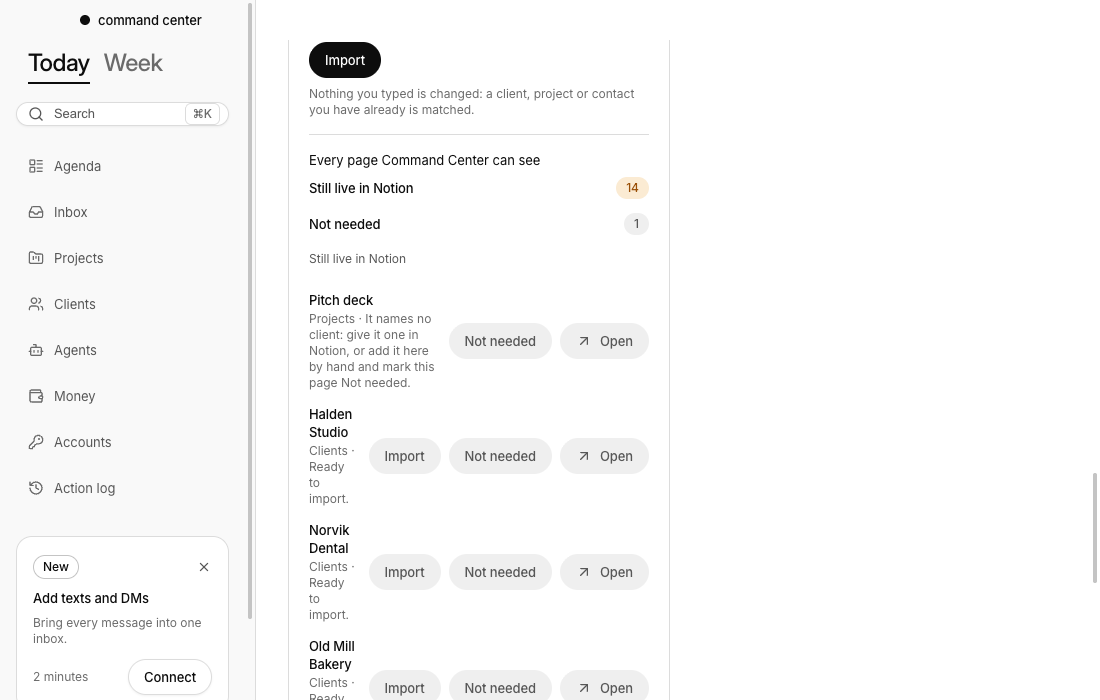
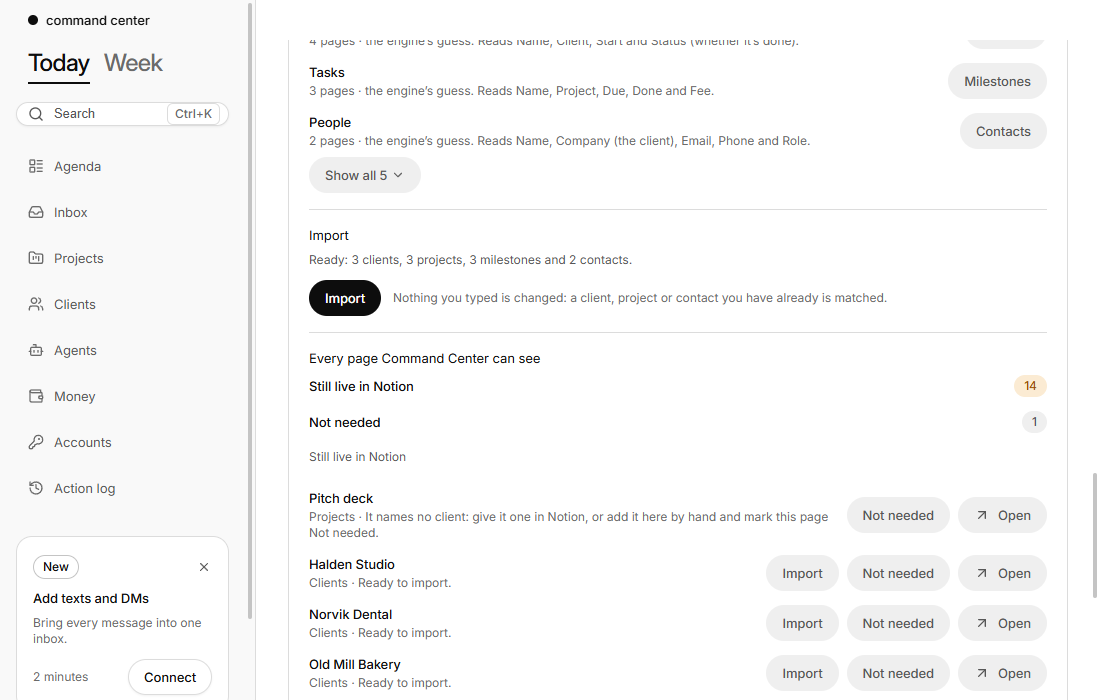
Guide and website: version 0.2.3, Notion without its limits

diff --git a/docs/notion.html b/docs/notion.html
@@ -4,9 +4,9 @@
 <meta charset="utf-8">
 <meta name="viewport" content="width=device-width, initial-scale=1">
 <title>Bringing in Notion · Command Center</title>
-<meta name="description" content="Import your clients, projects, milestones and contacts from Notion with a read-only connection, check what each database becomes, then retire Notion when nothing's left there.">
+<meta name="description" content="Import your clients, projects, milestones, contacts, contracts and accounts from Notion with a read-only connection, check what each database becomes, bring in later changes, then retire Notion when nothing's left there.">
 <meta property="og:title" content="Bringing in Notion · Command Center">
-<meta property="og:description" content="Import your clients, projects, milestones and contacts from Notion with a read-only connection, check what each database becomes, then retire Notion when nothing's left there.">
+<meta property="og:description" content="Import your clients, projects, milestones, contacts, contracts and accounts from Notion with a read-only connection, check what each database becomes, bring in later changes, then retire Notion when nothing's left there.">
 <meta property="og:image" content="assets/screens/today.png">
 <meta name="theme-color" content="#ffffff">
 <link rel="icon" href="assets/icon.png" type="image/png">
@@ -30,26 +30,37 @@
 <h2 id="connect">Connect</h2>
 <ol class="steps">
   <li>At <a href="https://app.notion.com/developers/connections">app.notion.com/developers/connections</a>, as your workspace's owner, create an <strong>internal connection</strong> called Command Center.</li>
-  <li>On its Configuration tab, let it <strong>read content only</strong>: untick updating and inserting content and any comment boxes, and choose no user information.</li>
+  <li>On its Configuration tab, let it <strong>read content only</strong>: untick updating and inserting content and any comment boxes. Under user information, choose <strong>Read user information without email addresses</strong>, so a page's people read as names, never email addresses.</li>
   <li>On its Content access tab, pick every page and database you still use. A page's children come with it.</li>
   <li>Copy its API token (it starts <code>ntn_</code>), paste it into Settings › Sources › Notion import, and choose <strong>Connect Notion</strong>. The token goes to your keychain.</li>
 </ol>
 
 <h2 id="import">Import</h2>
-<p>The <strong>Notion import</strong> card lists each database it can see and what it'll become: <strong>Clients</strong>, <strong>Projects</strong>, <strong>Milestones</strong>, <strong>Contacts</strong>, or <strong>Not imported</strong>. Its guess is just a guess until you choose.</p>
+<p>The <strong>Notion import</strong> card lists each database it can see and what it'll become: <strong>Clients</strong>, <strong>Projects</strong>, <strong>Milestones</strong>, <strong>Contacts</strong>, <strong>Contracts</strong>, <strong>Accounts</strong>, or <strong>Not imported</strong>. Its guess is just a guess until you choose.</p>
 <ul>
   <li>Each page shows whether it'll be <strong>added</strong>, <strong>matched</strong> to something you already have (and left as you typed it), or <strong>doesn't fit</strong>, with why.</li>
   <li>Choose <strong>Import</strong>. It's one change, with one <strong>Undo</strong> in the action log.</li>
   <li>Set aside any page with <strong>Not needed</strong>.</li>
 </ul>
 <figure><div class="shot"><img src="assets/screens/settings-tab-reading-notion.png" width="1100" height="700" alt="The Notion import card: Import, then every page Command Center can see, with those still live in Notion and their Import, Not needed and Open buttons." loading="lazy" decoding="async"></div></figure>
-<p>Long lists show their first rows, with <strong>Show all</strong>.</p>
+<p>Long lists show their first rows, with <strong>Show all</strong>. Big workspaces are fine: up to 20,000 pages and 200 databases, with the read's progress as it goes. Relations, rollups and formulas are read whole.</p>
+
+<h3 id="files">Files and secrets</h3>
+<ul>
+  <li><strong>A contract's file</strong> kept in Notion is copied into Command Center when you import it (up to 25 MB, from Notion's own file hosts only). A link to a file kept elsewhere opens in your browser from its row.</li>
+  <li><strong>Passwords, keys, tokens, PINs, recovery codes and card numbers are never read.</strong> A field named like one stays in Notion, and the card says so: keep it in your password manager.</li>
+</ul>
 
 <h2 id="live">Keeping an eye on what's left</h2>
 <p>Until you retire it, Notion is read again when you choose <strong>Check Notion now</strong> and at each touchpoint, before the brief. A page stays <strong>live</strong> while it's waiting, doesn't fit, sits outside your databases unsettled, or changed in Notion since you settled it. Open any page in your browser from its row.</p>
+<ul>
+  <li><strong>A page that changed in Notion</strong> after you imported it shows what changed, field by field. <strong>Bring in</strong> takes the change; where you changed the same field here too, pick <strong>Keep here</strong> or <strong>Use Notion</strong> for it. <strong>Checked</strong> leaves yours as it is. Either way you can undo it from the action log.</li>
+  <li><strong>Pages you haven't shared</strong> with the connection can't be read, but links to them are counted, so the card tells you how many to share.</li>
+  <li><strong>A page deleted in Notion</strong> counts as <strong>Gone from Notion</strong>, and the import is worked out again without it. An archived page is still read, marked <strong>Archived in Notion</strong>.</li>
+</ul>
 
 <h2 id="retire">Retire Notion</h2>
-<p>The checklist has four lines. Two tick themselves: <strong>Notion read, with what you shared</strong> and <strong>Nothing live remains in Notion</strong>. Two you tick: <strong>Every page you still use is shared with the connection</strong>, and <strong>Your databases are locked in Notion</strong> (••• › Lock database). With all four ticked, choose <strong>Retire Notion</strong>. Command Center forgets the token, and the Sources row reads <strong>Retired</strong>.</p>
+<p>The checklist has four lines. Three tick themselves: <strong>Notion read, with what you shared</strong>, <strong>Nothing live remains in Notion</strong>, and <strong>Your databases are locked in Notion</strong> once you lock each one you imported (••• › Lock database) and Notion says so; if Notion can't say, you tick it. You tick <strong>Every page you still use is shared with the connection</strong>. With all four ticked, choose <strong>Retire Notion</strong>. Command Center forgets the token, and the Sources row reads <strong>Retired</strong>.</p>
 <nav class="pager" aria-label="More docs"><a href="claude.html"><span>Before</span><strong>Claude, guardrails and costs</strong></a><a class="next" href="data.html"><span>Next</span><strong>Your data, backups and updates</strong></a></nav></main></div>
 <footer class="foot">
   <div class="wrap">

diff --git a/site/pages/notion.html b/site/pages/notion.html
@@ -1,27 +1,38 @@
-<!-- {"title": "Bringing in Notion", "description": "Import your clients, projects, milestones and contacts from Notion with a read-only connection, check what each database becomes, then retire Notion when nothing's left there."} -->
+<!-- {"title": "Bringing in Notion", "description": "Import your clients, projects, milestones, contacts, contracts and accounts from Notion with a read-only connection, check what each database becomes, bring in later changes, then retire Notion when nothing's left there."} -->
 <h1>Bringing in Notion</h1>
 <p class="lead">If your clients and projects live in Notion, bring them into Command Center once, check nothing was missed, then retire Notion. Command Center only ever reads Notion; it never writes there.</p>
 
 <h2 id="connect">Connect</h2>
 <ol class="steps">
   <li>At <a href="https://app.notion.com/developers/connections">app.notion.com/developers/connections</a>, as your workspace's owner, create an <strong>internal connection</strong> called Command Center.</li>
-  <li>On its Configuration tab, let it <strong>read content only</strong>: untick updating and inserting content and any comment boxes, and choose no user information.</li>
+  <li>On its Configuration tab, let it <strong>read content only</strong>: untick updating and inserting content and any comment boxes. Under user information, choose <strong>Read user information without email addresses</strong>, so a page's people read as names, never email addresses.</li>
   <li>On its Content access tab, pick every page and database you still use. A page's children come with it.</li>
   <li>Copy its API token (it starts <code>ntn_</code>), paste it into Settings › Sources › Notion import, and choose <strong>Connect Notion</strong>. The token goes to your keychain.</li>
 </ol>
 
 <h2 id="import">Import</h2>
-<p>The <strong>Notion import</strong> card lists each database it can see and what it'll become: <strong>Clients</strong>, <strong>Projects</strong>, <strong>Milestones</strong>, <strong>Contacts</strong>, or <strong>Not imported</strong>. Its guess is just a guess until you choose.</p>
+<p>The <strong>Notion import</strong> card lists each database it can see and what it'll become: <strong>Clients</strong>, <strong>Projects</strong>, <strong>Milestones</strong>, <strong>Contacts</strong>, <strong>Contracts</strong>, <strong>Accounts</strong>, or <strong>Not imported</strong>. Its guess is just a guess until you choose.</p>
 <ul>
   <li>Each page shows whether it'll be <strong>added</strong>, <strong>matched</strong> to something you already have (and left as you typed it), or <strong>doesn't fit</strong>, with why.</li>
   <li>Choose <strong>Import</strong>. It's one change, with one <strong>Undo</strong> in the action log.</li>
   <li>Set aside any page with <strong>Not needed</strong>.</li>
 </ul>
 {{shot:settings-tab-reading-notion|The Notion import card: Import, then every page Command Center can see, with those still live in Notion and their Import, Not needed and Open buttons.}}
-<p>Long lists show their first rows, with <strong>Show all</strong>.</p>
+<p>Long lists show their first rows, with <strong>Show all</strong>. Big workspaces are fine: up to 20,000 pages and 200 databases, with the read's progress as it goes. Relations, rollups and formulas are read whole.</p>
+
+<h3 id="files">Files and secrets</h3>
+<ul>
+  <li><strong>A contract's file</strong> kept in Notion is copied into Command Center when you import it (up to 25 MB, from Notion's own file hosts only). A link to a file kept elsewhere opens in your browser from its row.</li>
+  <li><strong>Passwords, keys, tokens, PINs, recovery codes and card numbers are never read.</strong> A field named like one stays in Notion, and the card says so: keep it in your password manager.</li>
+</ul>
 
 <h2 id="live">Keeping an eye on what's left</h2>
 <p>Until you retire it, Notion is read again when you choose <strong>Check Notion now</strong> and at each touchpoint, before the brief. A page stays <strong>live</strong> while it's waiting, doesn't fit, sits outside your databases unsettled, or changed in Notion since you settled it. Open any page in your browser from its row.</p>
+<ul>
+  <li><strong>A page that changed in Notion</strong> after you imported it shows what changed, field by field. <strong>Bring in</strong> takes the change; where you changed the same field here too, pick <strong>Keep here</strong> or <strong>Use Notion</strong> for it. <strong>Checked</strong> leaves yours as it is. Either way you can undo it from the action log.</li>
+  <li><strong>Pages you haven't shared</strong> with the connection can't be read, but links to them are counted, so the card tells you how many to share.</li>
+  <li><strong>A page deleted in Notion</strong> counts as <strong>Gone from Notion</strong>, and the import is worked out again without it. An archived page is still read, marked <strong>Archived in Notion</strong>.</li>
+</ul>
 
 <h2 id="retire">Retire Notion</h2>
-<p>The checklist has four lines. Two tick themselves: <strong>Notion read, with what you shared</strong> and <strong>Nothing live remains in Notion</strong>. Two you tick: <strong>Every page you still use is shared with the connection</strong>, and <strong>Your databases are locked in Notion</strong> (••• › Lock database). With all four ticked, choose <strong>Retire Notion</strong>. Command Center forgets the token, and the Sources row reads <strong>Retired</strong>.</p>
+<p>The checklist has four lines. Three tick themselves: <strong>Notion read, with what you shared</strong>, <strong>Nothing live remains in Notion</strong>, and <strong>Your databases are locked in Notion</strong> once you lock each one you imported (••• › Lock database) and Notion says so; if Notion can't say, you tick it. You tick <strong>Every page you still use is shared with the connection</strong>. With all four ticked, choose <strong>Retire Notion</strong>. Command Center forgets the token, and the Sources row reads <strong>Retired</strong>.</p>

diff --git a/docs/index.html b/docs/index.html
@@ -32,7 +32,7 @@
   <a class="button button--primary" data-download="mac" href="https://github.com/sKittyKat/command-center-releases/releases/latest"><svg viewBox="0 0 24 24" fill="none" stroke="currentColor" stroke-width="2" stroke-linecap="round" stroke-linejoin="round" aria-hidden="true"><path d="M12 15V3"/><path d="M21 15v4a2 2 0 0 1-2 2H5a2 2 0 0 1-2-2v-4"/><path d="m7 10 5 5 5-5"/></svg>Download for Mac <small>Apple silicon or Intel</small></a>
   <a class="button button--secondary" data-download="windows" href="https://github.com/sKittyKat/command-center-releases/releases/latest"><svg viewBox="0 0 24 24" fill="none" stroke="currentColor" stroke-width="2" stroke-linecap="round" stroke-linejoin="round" aria-hidden="true"><path d="M12 15V3"/><path d="M21 15v4a2 2 0 0 1-2 2H5a2 2 0 0 1-2-2v-4"/><path d="m7 10 5 5 5-5"/></svg>Download for Windows <small>10 or 11</small></a>
 </div>
-  <p class="fine">Free. Version <span data-version>0.2.2</span>. Your data stays on your computer.</p>
+  <p class="fine">Free. Version <span data-version>0.2.3</span>. Your data stays on your computer.</p>
   <div class="shot hero-shot"><img src="assets/screens/today.png" width="1100" height="700" alt="Today in Command Center: 12 things to do, about 24 minutes of your time, 31 handled overnight, and the midday sweep coming at 1:00 PM."></div>
 </section>
 
@@ -74,7 +74,7 @@
     <a class="card" href="money.html"><div class="icon"><svg viewBox="0 0 24 24" fill="none" stroke="currentColor" stroke-width="2" stroke-linecap="round" stroke-linejoin="round" aria-hidden="true"><path d="M19 7V4a1 1 0 0 0-1-1H5a2 2 0 0 0 0 4h15a1 1 0 0 1 1 1v4h-3a2 2 0 0 0 0 4h3a1 1 0 0 0 1-1v-2a1 1 0 0 0-1-1"/><path d="M3 5v14a2 2 0 0 0 2 2h15a1 1 0 0 0 1-1v-4"/></svg></div><h3>Money</h3><p>QuickBooks and Stripe read in, invoices drafted from milestones, a Friday reconcile, and flags for odd charges.</p><span class="more">Money and the books</span></a>
     <a class="card" href="accounts.html"><div class="icon"><svg viewBox="0 0 24 24" fill="none" stroke="currentColor" stroke-width="2" stroke-linecap="round" stroke-linejoin="round" aria-hidden="true"><path d="M2.586 17.414A2 2 0 0 0 2 18.828V21a1 1 0 0 0 1 1h3a1 1 0 0 0 1-1v-1a1 1 0 0 1 1-1h1a1 1 0 0 0 1-1v-1a1 1 0 0 1 1-1h.172a2 2 0 0 0 1.414-.586l.814-.814a6.5 6.5 0 1 0-4-4z"/><circle cx="16.5" cy="7.5" r=".5" fill="currentColor"/></svg></div><h3>Accounts and cards</h3><p>Every client login, card on file and renewal, without ever keeping a password or a full card number.</p><span class="more">Accounts and cards</span></a>
     <a class="card" href="touchpoints.html"><div class="icon"><svg viewBox="0 0 24 24" fill="none" stroke="currentColor" stroke-width="2" stroke-linecap="round" stroke-linejoin="round" aria-hidden="true"><path d="M10.268 21a2 2 0 0 0 3.464 0"/><path d="M3.262 15.326A1 1 0 0 0 4 17h16a1 1 0 0 0 .74-1.673C19.41 13.956 18 12.499 18 8A6 6 0 0 0 6 8c0 4.499-1.411 5.956-2.738 7.326"/></svg></div><h3>Alerts and audio</h3><p>What can't wait reaches your phone through ntfy. The morning brief can be read aloud by your computer's own voice.</p><span class="more">Touchpoints and alerts</span></a>
-    <a class="card" href="notion.html"><div class="icon"><svg viewBox="0 0 24 24" fill="none" stroke="currentColor" stroke-width="2" stroke-linecap="round" stroke-linejoin="round" aria-hidden="true"><path d="M12 5v16"/><path d="M20.001 19A2 2 0 0022 17V5a2 2 0 00-1.999-2L16 3.002A5 5 0 0012 5a5 5 0 00-4-2H4a2 2 0 00-2 2v12a2 2 0 001.999 2H8a5 5 0 014 2 5 5 0 014-2z"/></svg></div><h3>Bring in Notion</h3><p>Import your clients, projects and milestones from Notion, read only, then retire it when nothing's left there.</p><span class="more">Bringing in Notion</span></a>
+    <a class="card" href="notion.html"><div class="icon"><svg viewBox="0 0 24 24" fill="none" stroke="currentColor" stroke-width="2" stroke-linecap="round" stroke-linejoin="round" aria-hidden="true"><path d="M12 5v16"/><path d="M20.001 19A2 2 0 0022 17V5a2 2 0 00-1.999-2L16 3.002A5 5 0 0012 5a5 5 0 00-4-2H4a2 2 0 00-2 2v12a2 2 0 001.999 2H8a5 5 0 014 2 5 5 0 014-2z"/></svg></div><h3>Bring in Notion</h3><p>Import your clients, projects, contracts and accounts from Notion, read only, then retire it when nothing's left there.</p><span class="more">Bringing in Notion</span></a>
     <a class="card" href="data.html#backups"><div class="icon"><svg viewBox="0 0 24 24" fill="none" stroke="currentColor" stroke-width="2" stroke-linecap="round" stroke-linejoin="round" aria-hidden="true"><path d="M10 16h.01"/><path d="M2.212 11.577a2 2 0 0 0-.212.896V18a2 2 0 0 0 2 2h16a2 2 0 0 0 2-2v-5.527a2 2 0 0 0-.212-.896L18.55 5.11A2 2 0 0 0 16.76 4H7.24a2 2 0 0 0-1.79 1.11z"/><path d="M21.946 12.013H2.054"/><path d="M6 16h.01"/></svg></div><h3>Backups</h3><p>Your workspace sealed with your passphrase every night, in a folder you choose, and restored on a new computer.</p><span class="more">Backups</span></a>
     <a class="card" href="claude.html"><div class="icon"><svg viewBox="0 0 24 24" fill="none" stroke="currentColor" stroke-width="2" stroke-linecap="round" stroke-linejoin="round" aria-hidden="true"><path d="M11.017 2.814a1 1 0 0 1 1.966 0l1.051 5.558a2 2 0 0 0 1.594 1.594l5.558 1.051a1 1 0 0 1 0 1.966l-5.558 1.051a2 2 0 0 0-1.594 1.594l-1.051 5.558a1 1 0 0 1-1.966 0l-1.051-5.558a2 2 0 0 0-1.594-1.594l-5.558-1.051a1 1 0 0 1 0-1.966l5.558-1.051a2 2 0 0 0 1.594-1.594z"/><path d="M20 2v4"/><path d="M22 4h-4"/><circle cx="4" cy="20" r="2"/></svg></div><h3>Claude, your way</h3><p>Pay with your own API key or your Claude plan, under a monthly cap you set. Command Center itself is free.</p><span class="more">Claude and costs</span></a>
   </div>

diff --git a/docs/releases.html b/docs/releases.html
@@ -27,7 +27,18 @@
 <div class="docs"><aside class="sidebar" aria-label="Docs"><details open><summary>All docs</summary><nav><h2>Start</h2><ul><li><a href="get-started.html">Install and set up</a></li></ul><h2>Every day</h2><ul><li><a href="today.html">Today and the agenda</a></li><li><a href="touchpoints.html">Touchpoints and alerts</a></li><li><a href="inbox.html">Inbox: Gmail and Slack</a></li><li><a href="projects.html">Projects and clients</a></li><li><a href="agents.html">Site agents</a></li><li><a href="money.html">Money and the books</a></li><li><a href="accounts.html">Accounts and cards</a></li></ul><h2>Your settings</h2><ul><li><a href="claude.html">Claude, guardrails and costs</a></li><li><a href="notion.html">Bringing in Notion</a></li><li><a href="data.html">Your data, backups and updates</a></li></ul><h2>Help</h2><ul><li><a href="help.html">Troubleshooting</a></li><li><a href="releases.html" aria-current="page">Release notes</a></li></ul></nav></details></aside><main id="main" class="content"><h1>Release notes</h1>
 <p class="lead">Every version, newest first. The installers and their SHA-256 checksums are on the <a href="https://github.com/sKittyKat/command-center-releases/releases">releases page</a>; the app tells you when a new one is out.</p>
 
-<h2 id="v0-2-2">0.2.2 <span class="chip chip--ink">Latest</span></h2>
+<h2 id="v0-2-3">0.2.3 <span class="chip chip--ink">Latest</span></h2>
+<p class="muted">November 19, 2026 · <a href="https://github.com/sKittyKat/command-center-releases/releases/tag/v0.2.3">Download</a></p>
+<ul>
+  <li><strong>Notion, without its old limits.</strong> Big workspaces (up to 20,000 pages), relations, rollups and formulas read whole, and people by name.</li>
+  <li><strong>Contracts and accounts</strong> come in from Notion too; a contract's file is copied in. Passwords and card numbers are never read.</li>
+  <li><strong>Changes in Notion after you import</strong> show field by field: bring them in, or keep yours.</li>
+  <li><strong>Locking ticks itself:</strong> the retire checklist sees when your databases are locked in Notion.</li>
+  <li><strong>A wider Notion import card</strong> in Settings, so each page's buttons and changes have room.</li>
+</ul>
+<p>See <a href="notion.html">Bringing in Notion</a>.</p>
+
+<h2 id="v0-2-2">0.2.2</h2>
 <p class="muted">November 16, 2026 · <a href="https://github.com/sKittyKat/command-center-releases/releases/tag/v0.2.2">Download</a></p>
 <ul>
   <li><strong>Claude Code, found everywhere.</strong> With Claude paid by your plan, <strong>Check</strong> looks everywhere Claude Code gets installed on a Mac and on Windows, including the copy inside the Claude desktop app, and uses the one signed in with your plan.</li>

diff --git a/site/pages/index.html b/site/pages/index.html
@@ -4,7 +4,7 @@
   <h1>Your business admin, handled. Only what needs you reaches you.</h1>
   <p class="lead">Command Center is a desktop app for Mac and Windows. Claude works through your mail, projects, clients, site agents and money, and three times a day you get only what needs you: things to approve, review, reply to or decide.</p>
   {{download}}
-  <p class="fine">Free. Version <span data-version>0.2.2</span>. Your data stays on your computer.</p>
+  <p class="fine">Free. Version <span data-version>0.2.3</span>. Your data stays on your computer.</p>
   <div class="shot hero-shot"><img src="assets/screens/today.png" width="1100" height="700" alt="Today in Command Center: 12 things to do, about 24 minutes of your time, 31 handled overnight, and the midday sweep coming at 1:00 PM."></div>
 </section>
 
@@ -46,7 +46,7 @@
     <a class="card" href="money.html"><div class="icon">{{icon:wallet}}</div><h3>Money</h3><p>QuickBooks and Stripe read in, invoices drafted from milestones, a Friday reconcile, and flags for odd charges.</p><span class="more">Money and the books</span></a>
     <a class="card" href="accounts.html"><div class="icon">{{icon:key-round}}</div><h3>Accounts and cards</h3><p>Every client login, card on file and renewal, without ever keeping a password or a full card number.</p><span class="more">Accounts and cards</span></a>
     <a class="card" href="touchpoints.html"><div class="icon">{{icon:bell}}</div><h3>Alerts and audio</h3><p>What can't wait reaches your phone through ntfy. The morning brief can be read aloud by your computer's own voice.</p><span class="more">Touchpoints and alerts</span></a>
-    <a class="card" href="notion.html"><div class="icon">{{icon:book-open}}</div><h3>Bring in Notion</h3><p>Import your clients, projects and milestones from Notion, read only, then retire it when nothing's left there.</p><span class="more">Bringing in Notion</span></a>
+    <a class="card" href="notion.html"><div class="icon">{{icon:book-open}}</div><h3>Bring in Notion</h3><p>Import your clients, projects, contracts and accounts from Notion, read only, then retire it when nothing's left there.</p><span class="more">Bringing in Notion</span></a>
     <a class="card" href="data.html#backups"><div class="icon">{{icon:hard-drive}}</div><h3>Backups</h3><p>Your workspace sealed with your passphrase every night, in a folder you choose, and restored on a new computer.</p><span class="more">Backups</span></a>
     <a class="card" href="claude.html"><div class="icon">{{icon:sparkles}}</div><h3>Claude, your way</h3><p>Pay with your own API key or your Claude plan, under a monthly cap you set. Command Center itself is free.</p><span class="more">Claude and costs</span></a>
   </div>

diff --git a/site/pages/releases.html b/site/pages/releases.html
@@ -2,7 +2,18 @@
 <h1>Release notes</h1>
 <p class="lead">Every version, newest first. The installers and their SHA-256 checksums are on the <a href="https://github.com/sKittyKat/command-center-releases/releases">releases page</a>; the app tells you when a new one is out.</p>
 
-<h2 id="v0-2-2">0.2.2 <span class="chip chip--ink">Latest</span></h2>
+<h2 id="v0-2-3">0.2.3 <span class="chip chip--ink">Latest</span></h2>
+<p class="muted">November 19, 2026 · <a href="https://github.com/sKittyKat/command-center-releases/releases/tag/v0.2.3">Download</a></p>
+<ul>
+  <li><strong>Notion, without its old limits.</strong> Big workspaces (up to 20,000 pages), relations, rollups and formulas read whole, and people by name.</li>
+  <li><strong>Contracts and accounts</strong> come in from Notion too; a contract's file is copied in. Passwords and card numbers are never read.</li>
+  <li><strong>Changes in Notion after you import</strong> show field by field: bring them in, or keep yours.</li>
+  <li><strong>Locking ticks itself:</strong> the retire checklist sees when your databases are locked in Notion.</li>
+  <li><strong>A wider Notion import card</strong> in Settings, so each page's buttons and changes have room.</li>
+</ul>
+<p>See <a href="notion.html">Bringing in Notion</a>.</p>
+
+<h2 id="v0-2-2">0.2.2</h2>
 <p class="muted">November 16, 2026 · <a href="https://github.com/sKittyKat/command-center-releases/releases/tag/v0.2.2">Download</a></p>
 <ul>
   <li><strong>Claude Code, found everywhere.</strong> With Claude paid by your plan, <strong>Check</strong> looks everywhere Claude Code gets installed on a Mac and on Windows, including the copy inside the Claude desktop app, and uses the one signed in with your plan.</li>

diff --git a/GUIDE.md b/GUIDE.md
@@ -1,6 +1,6 @@
 # Command Center: the guide
 
-This guide is for version 0.2.2. It covers installing, setting up, daily use, what things cost, your data, and moving to
+This guide is for version 0.2.3. It covers installing, setting up, daily use, what things cost, your data, and moving to
 a new computer. The app's words are in **bold**.
 
 - [1. Install](#1-install)
@@ -138,13 +138,18 @@ If your clients and projects live in Notion, bring them in, then retire Notion. 
 never writes there.
 1. At app.notion.com/developers/connections, as your workspace's owner, create an **internal connection** called Command
    Center.
-2. On its Configuration tab, let it **read content only**: untick updating and inserting content and any comment boxes,
-   and choose no user information.
+2. On its Configuration tab, let it **read content only**: untick updating and inserting content and any comment boxes.
+   Under user information, choose **Read user information without email addresses**, so people read as names.
 3. On its Content access tab, pick every page and database you still use. A page's children come with it.
 4. Copy its API token (it starts `ntn_`), paste it in, and choose **Connect Notion**.
-5. In the **Notion import** card, check what each database becomes (Clients, Projects, Milestones, Contacts, or Not
-   imported), then choose **Import**. It's one change you can undo from the action log.
-6. When nothing live remains, tick the checklist and choose **Retire Notion**.
+5. In the **Notion import** card, check what each database becomes (Clients, Projects, Milestones, Contacts, Contracts,
+   Accounts, or Not imported), then choose **Import**. It's one change you can undo from the action log. A contract's
+   file kept in Notion is copied in. Passwords, keys and card numbers are never read: they stay in Notion, for your
+   password manager.
+6. If a page changes in Notion after you've imported it, its row shows what changed: **Bring in** takes the change (where
+   you changed the same field here too, pick **Keep here** or **Use Notion**), or **Checked** leaves yours as it is.
+7. When nothing live remains, lock your databases in Notion (••• › Lock database; that step ticks itself), tick the rest
+   of the checklist and choose **Retire Notion**.
 
 ### Step 7: Your sites
 
